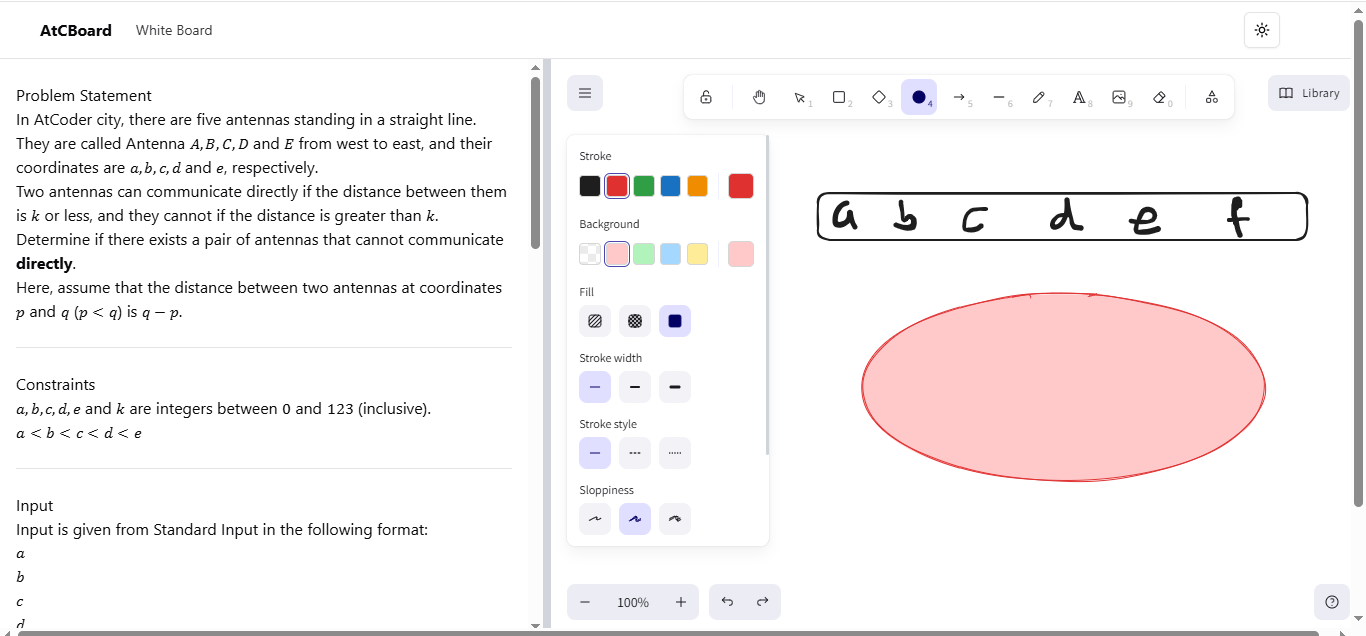
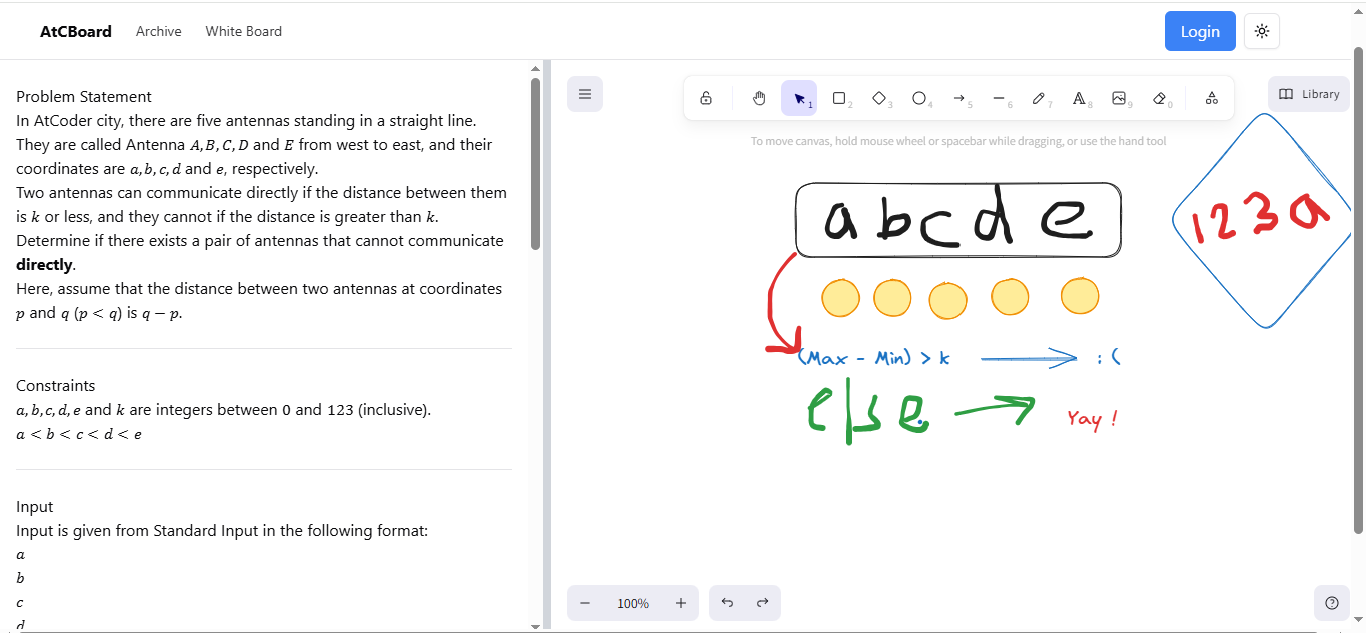
update assets and README.md

diff --git a/README.md b/README.md
@@ -15,6 +15,12 @@ Get the deployed version of the app at https://atcb.vercel.app/
   /
 ```
 
+#### Archive
+
+```
+  /archive
+```
+
 #### Whiteboard
 
 ```
@@ -23,9 +29,12 @@ Get the deployed version of the app at https://atcb.vercel.app/
 
 ## Screenshots
 ![Homepage](assets/Screenshots/Homepage.png)
-![Whiteboard](assets/Screenshots/Whiteboard.png)
 ![Fetching](assets/Screenshots/Fetching.png)
 ![Content](assets/Screenshots/Content.png)
+![Signup](assets/Screenshots/Signup.png)
+![Signin](assets/Screenshots/Signin.png)
+![Archive](assets/Screenshots/Archive.png)
+![Whiteboard](assets/Screenshots/Whiteboard.png)
 
 ## Tech Stack
 
@@ -45,6 +54,10 @@ Get the deployed version of the app at https://atcb.vercel.app/
 * Cheerio
 * CORS (`cors`)
 * Body-parser (`body-parser`)
+
+**Database**
+
+* Firebase
 
 **Deployment**
 
@@ -108,7 +121,7 @@ Contributions are always welcome! Feel free to fork the repository and make a pu
 
 ## Lessons Learned
 
-This project was a rapid learning curve. I mastered Next.js fundamentals, web scraping techniques, and deployment workflows. Robust debugging and server management became essential skills. Tailwind CSS and TypeScript solidified my front-end capabilities, improving both efficiency and design. Future exploration of Firebase and authentication will expand upon this now-solid foundation.
+This project was a rapid learning curve. I mastered Next.js fundamentals, web scraping techniques, and deployment workflows, all while utilizing Firebase for its database capabilities and implementing robust authentication. Essential skills like debugging and server management became second nature. My front-end capabilities were solidified by Tailwind CSS, leading to improved efficiency and design, while TypeScript enhanced code quality and maintainability across the project.
 
 ## Feedback
 
